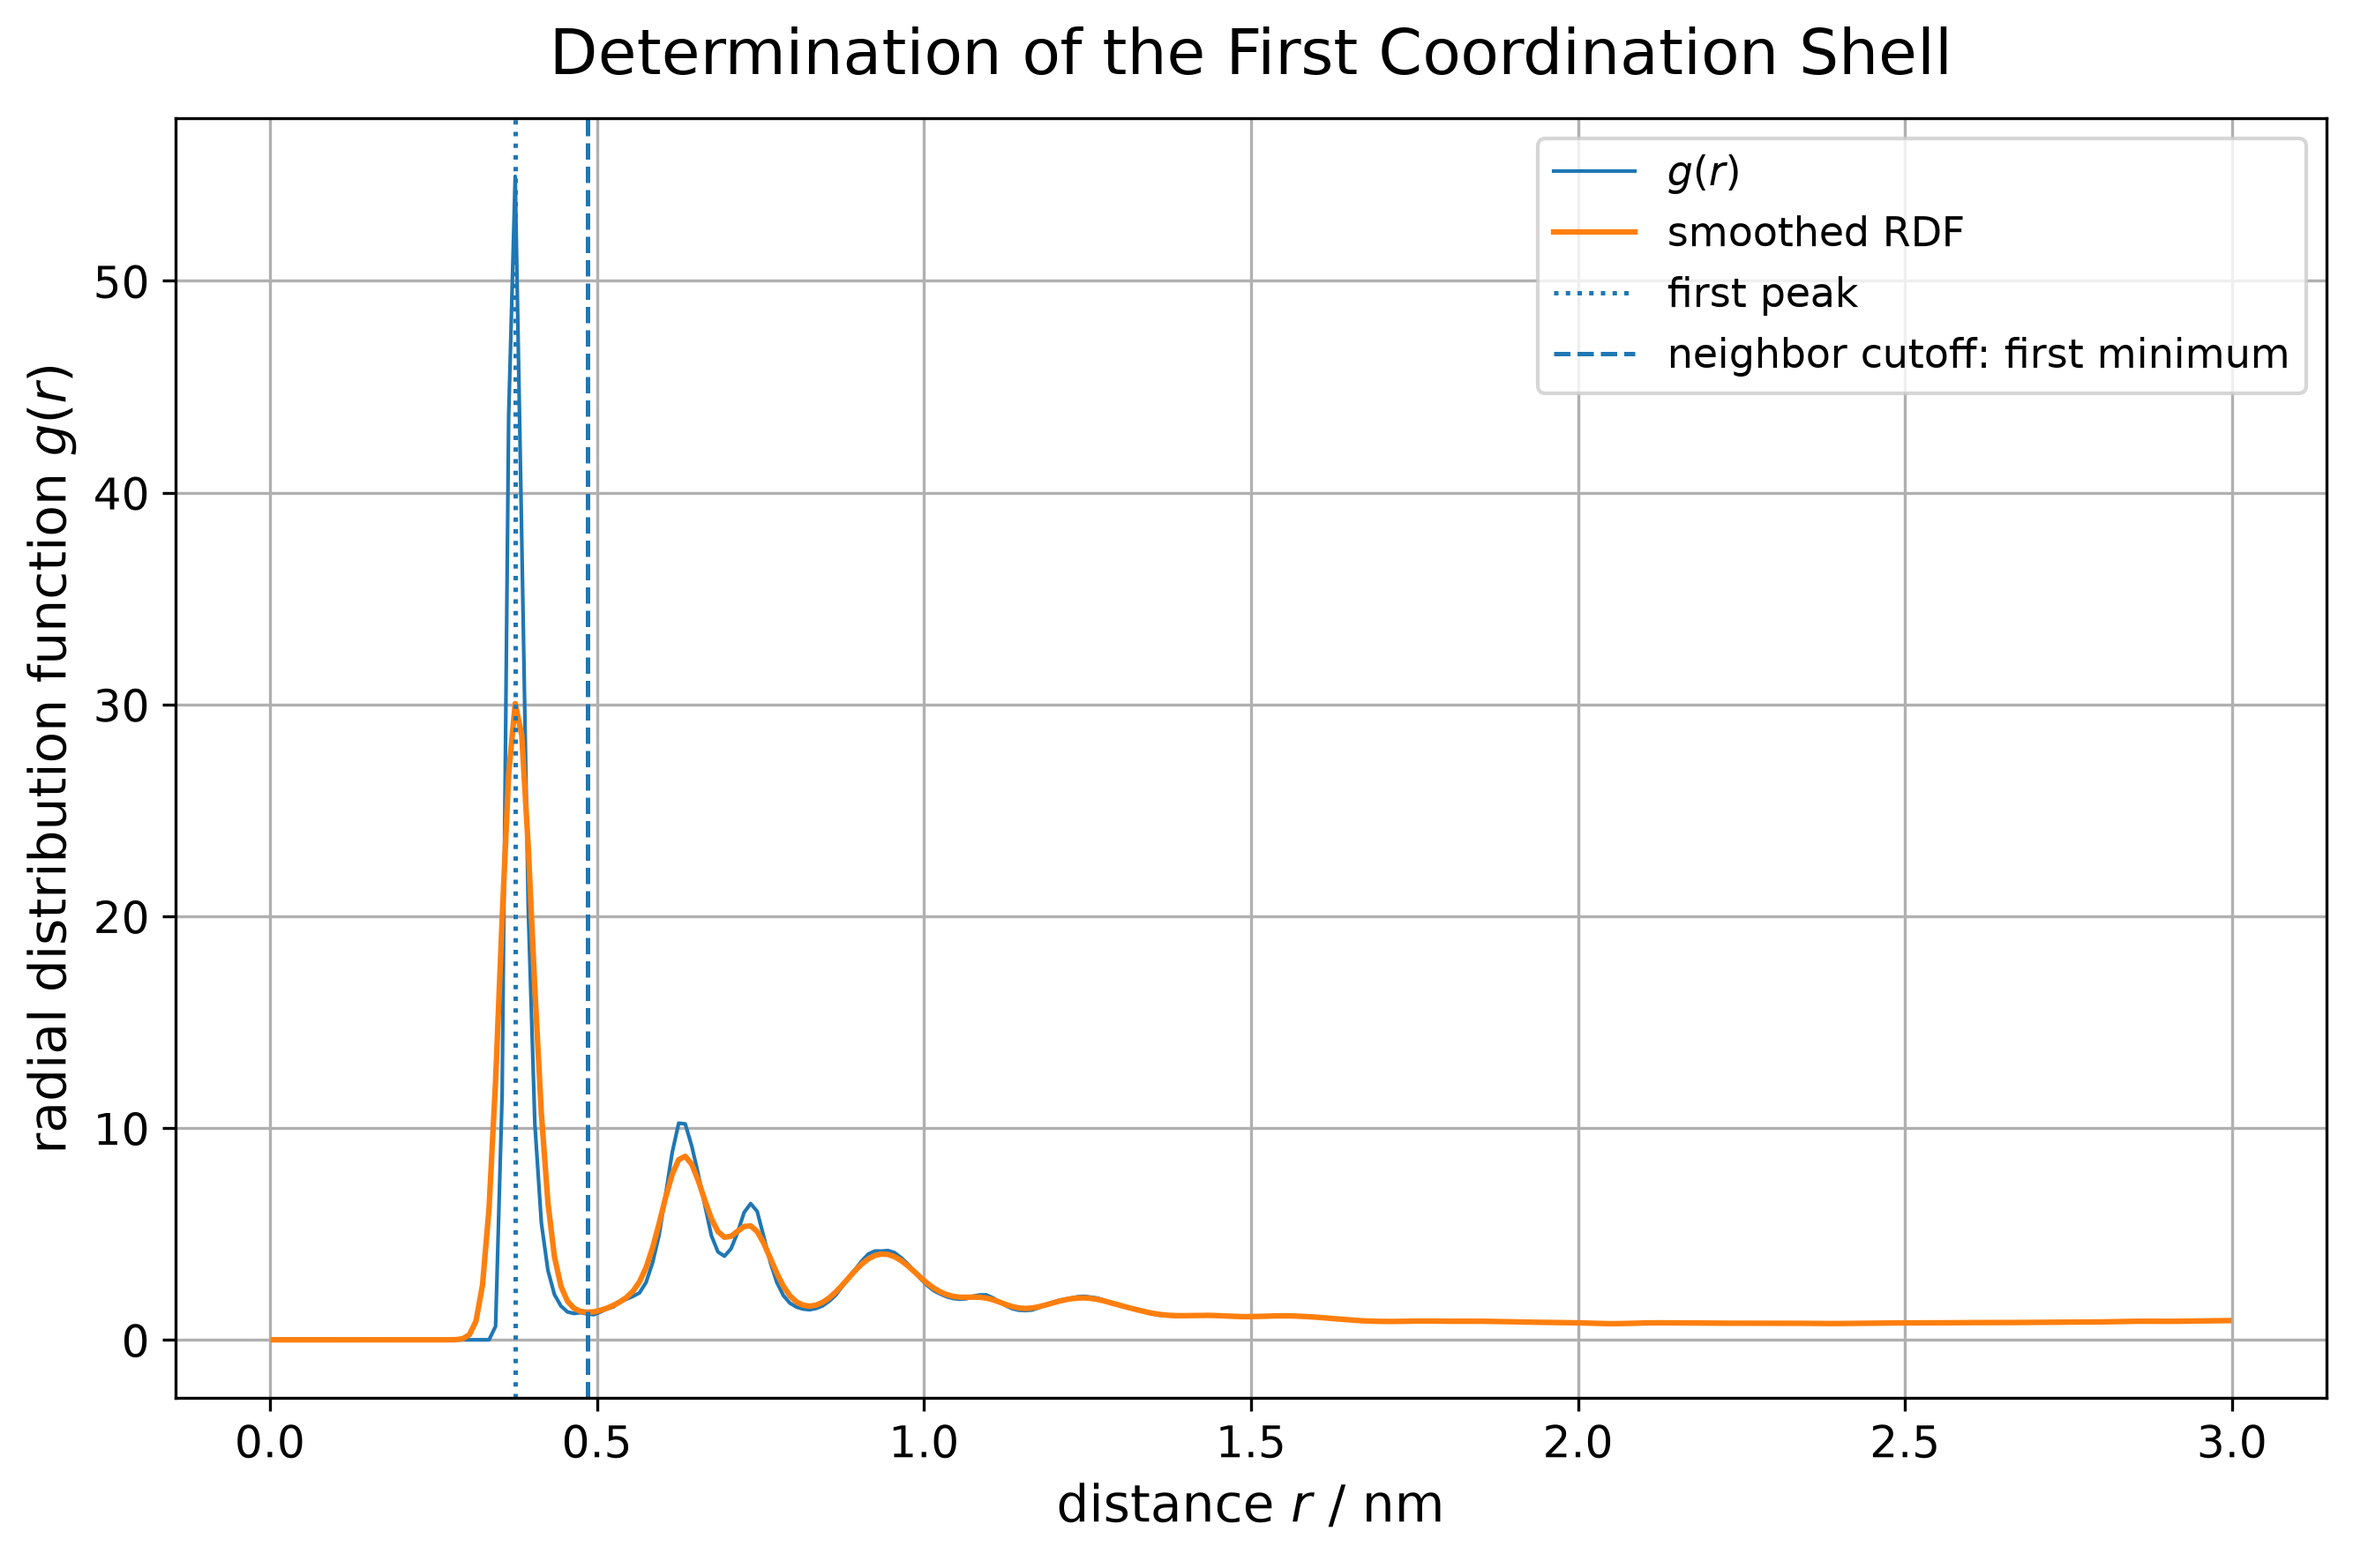
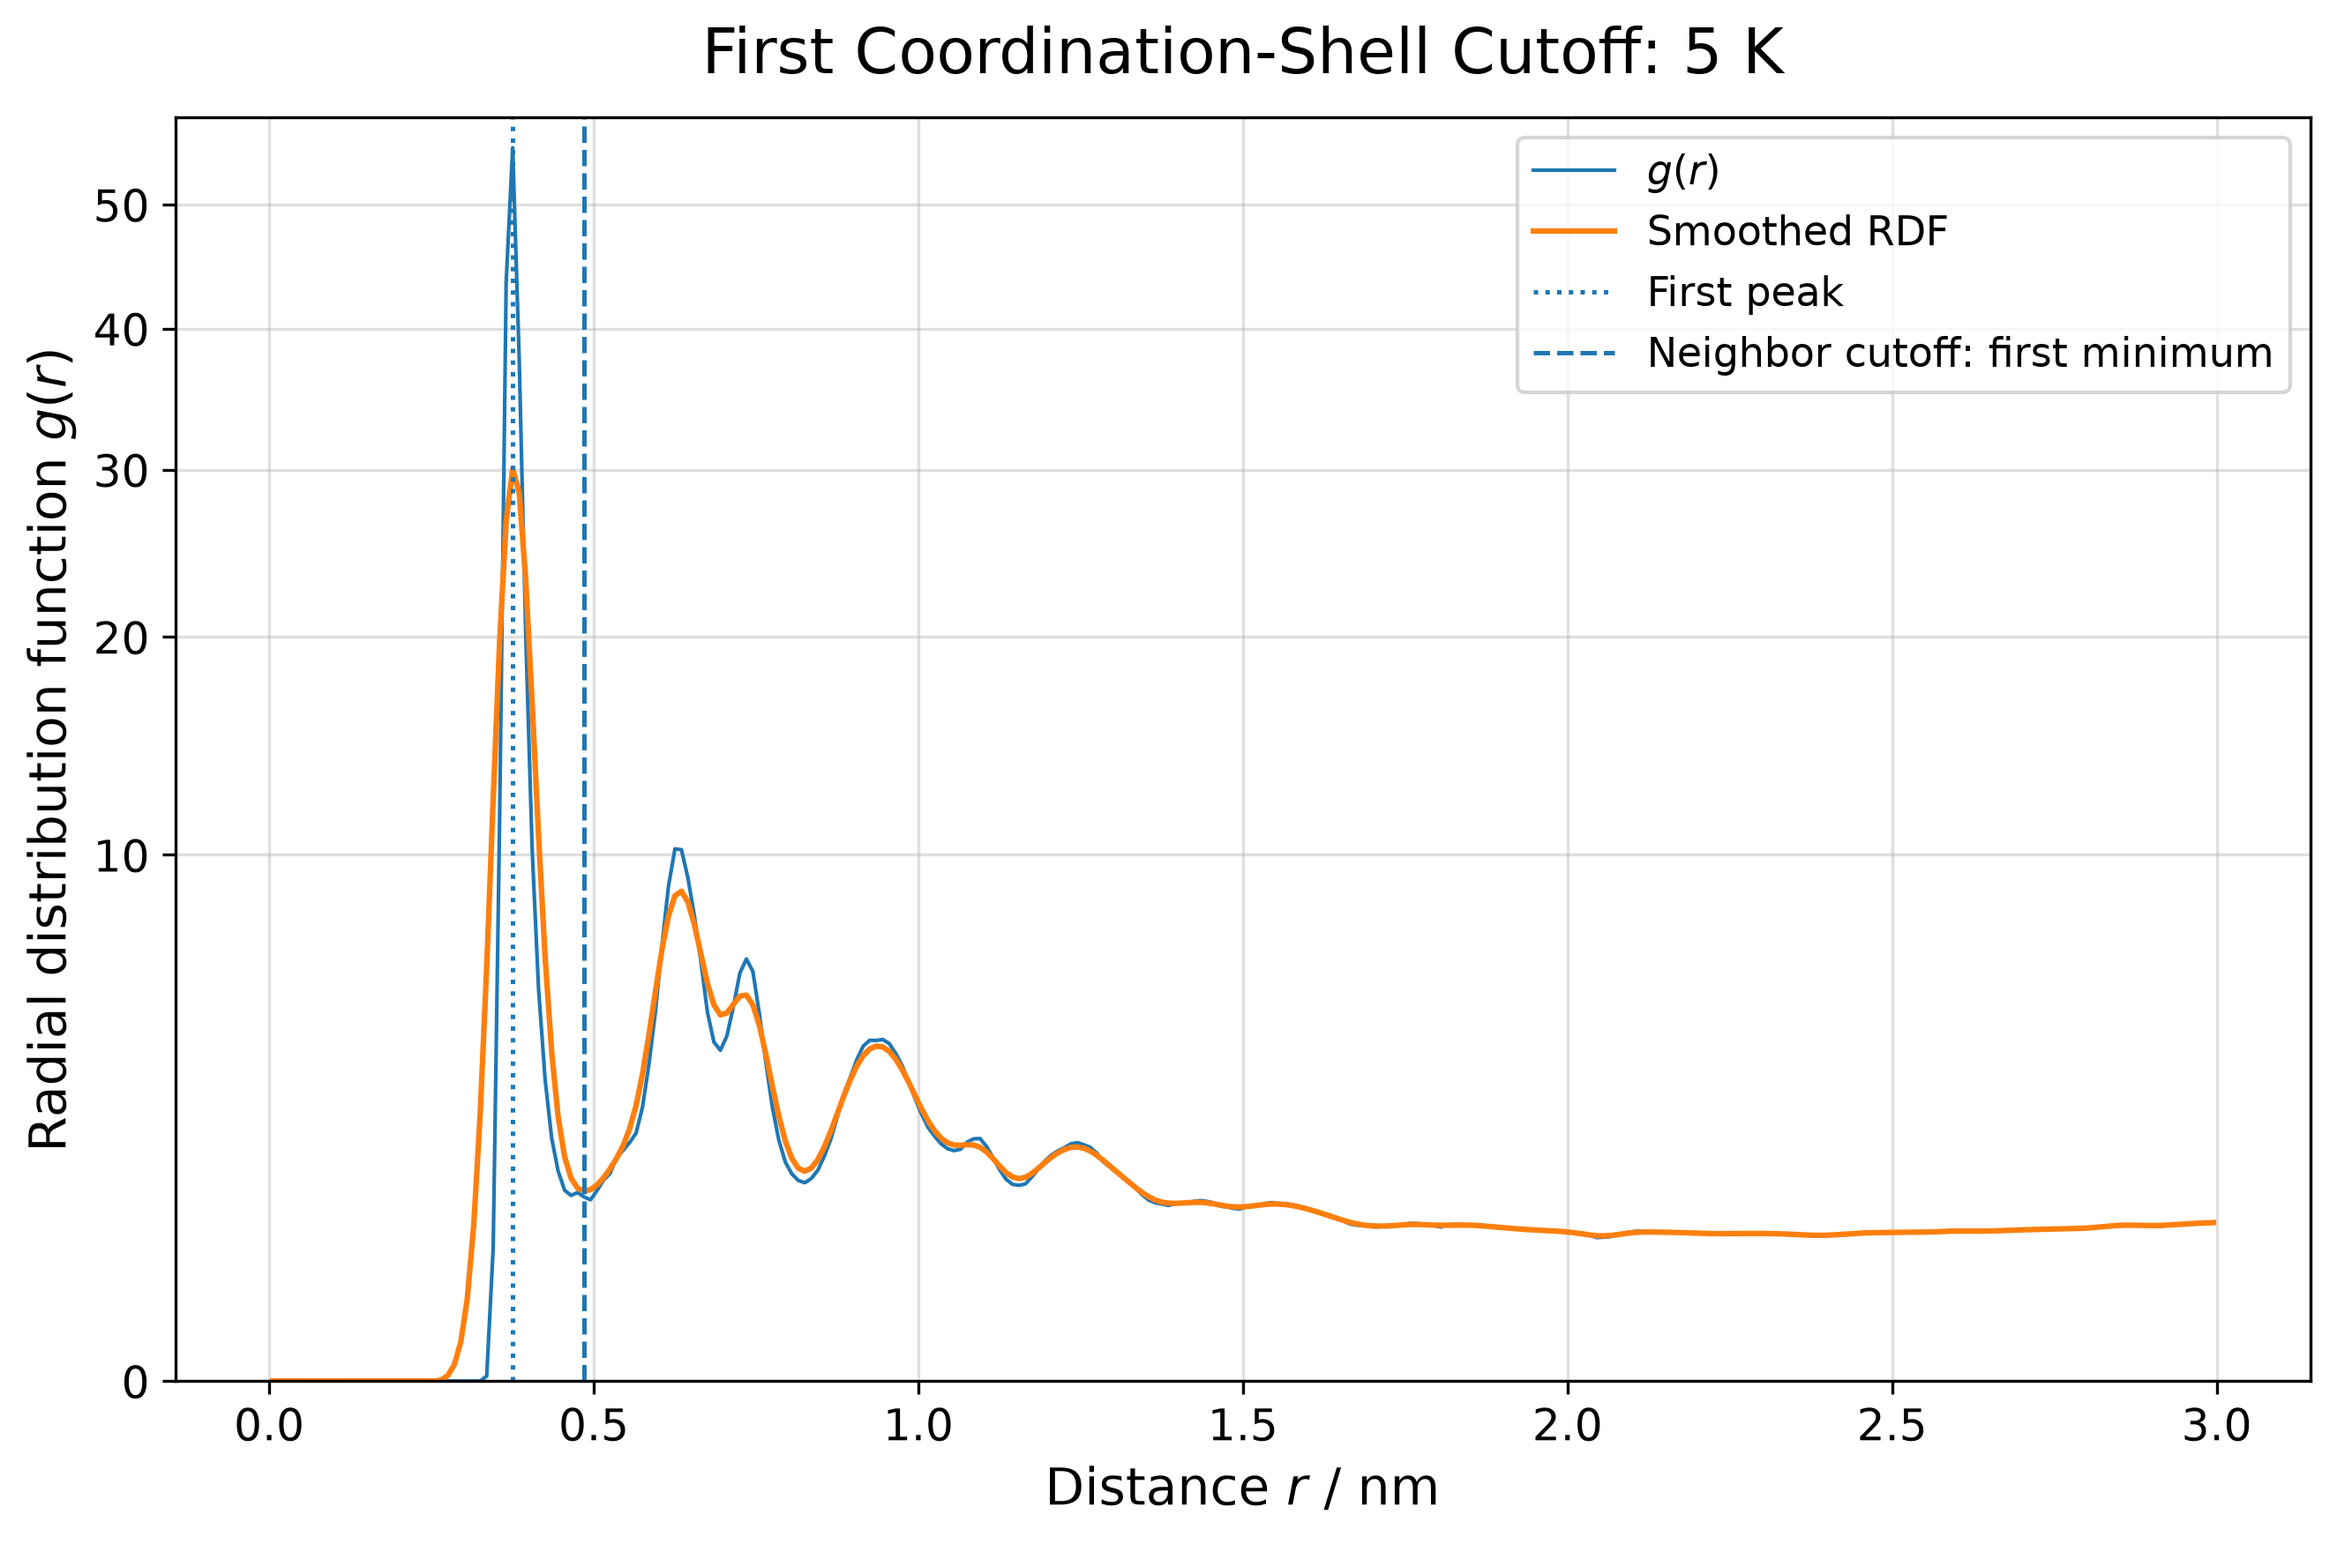
sim of ang

diff --git a/relative_angle_probability.py b/relative_angle_probability.py
@@ -65,22 +65,9 @@ TRAJECTORIES = [
     },
     {
         "path": Path(
-            r"C:\Users\morit\_Uni-FU\Semester 4\Molekueldynamik"
-            r"\md-project-08-group-04\results"
-            r"\2026-07-15_19-30-00-50K"
-            r"\my_simulation_pos-50K.xyz"
+            r"C:\Users\morit\_Uni-FU\Semester 4\Molekueldynamik\md-project-08-group-04\results\2026-07-16_18-51-01-300K\my_simulation_pos-300K.xyz"
         ),
-        "label": "50 K",
-        "box_length_nm": 6.0,
-    },
-    {
-        "path": Path(
-            r"C:\Users\morit\_Uni-FU\Semester 4\Molekueldynamik"
-            r"\md-project-08-group-04\results"
-            r"\2026-07-15_19-30-00-100K"
-            r"\my_simulation_pos-100K.xyz"
-        ),
-        "label": "100 K",
+        "label": "300 K",
         "box_length_nm": 6.0,
     },
 ]
@@ -142,7 +129,7 @@ SAVE_COMBINED_RDF_DIAGNOSTIC = True
 #
 # The conventional scientific representation is "linear".
 # "quadratic" visually emphasizes large peaks.
-Y_AXIS_SCALE = "quadratic"
+Y_AXIS_SCALE = "square_root"
 
 # Add each automatically selected cutoff to its curve label.
 SHOW_CUTOFF_IN_LEGEND = True
